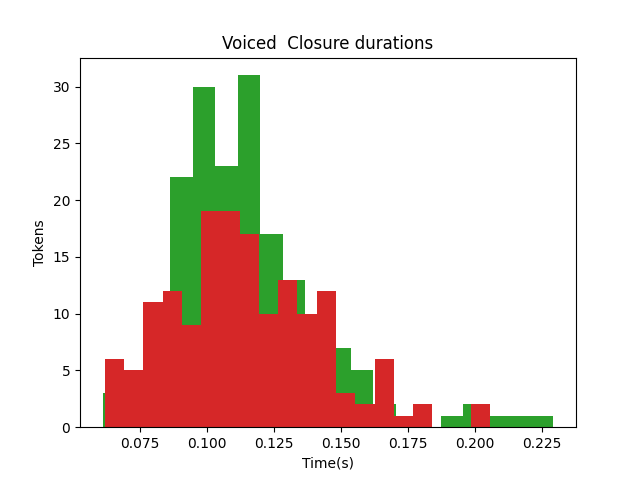
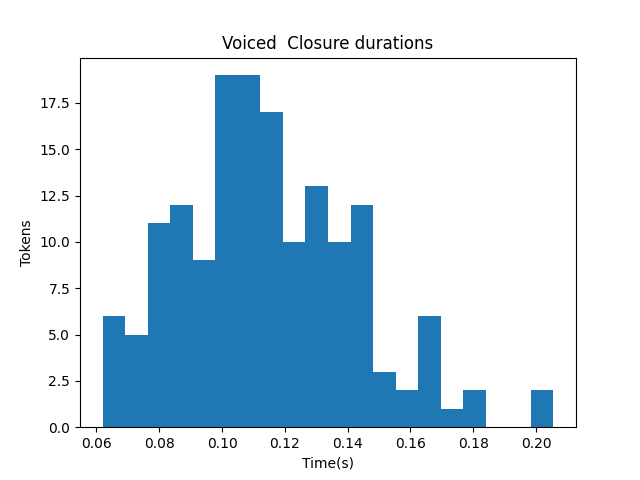
Added gradient clipping and got rid of bug where all the plots got squished into one

diff --git a/WaveformCNN/laff_vcv/compute_vcv_distributions.py b/WaveformCNN/laff_vcv/compute_vcv_distributions.py
@@ -89,7 +89,11 @@ def read_vowel_measurements(wav_file_name, vowel1, vowel2, vowel1_label, vowel2_
 
     # Steady-state measurement of vowel1: first 99% of the vowel - I don't have a good reason for picking this number; suggestions?
     v1_steady_min = vowel1.minTime
-    v1_steady_max = vowel1.maxTime * 0.99
+    v1_steady_max = vowel1.maxTime * 0.99 #TODO: reduce this split
+    #put vowel into many slices and get values for each slice - look for standard deviation to see if there's something weird
+    #getting measurement near closure- calculate slope and interpolate endpoint from earlier measurements?
+    #grab last few windows and check variance
+    #if checking by hand, do a variable sample
     v1_steady_midpoint = v1_steady_min + (v1_steady_max - v1_steady_max) / 2.0
     # Transition measurement of vowel1: last 10% of the vowel
     v1_transit_min = v1_steady_max
@@ -129,6 +133,7 @@ def read_vowel_measurements(wav_file_name, vowel1, vowel2, vowel1_label, vowel2_
 
     #Take f0 measurements of steady state vs transition regions (worried f0 won't be well defined if I go too near the  closure)
     #TODO: adjust parameters for different speakers
+    #check for cleanness in f0 contours
     pitch = parselmouth.praat.call(sound, "To Pitch", 0.0, 75, 500)  # create a praat pitch object
     vowel1_obj.measurement_dict[0]["steady"] = parselmouth.praat.call(pitch, "Get mean", v1_steady_min, v1_steady_max, "Hertz")  # get mean pitch
     vowel2_obj.measurement_dict[0]["steady"] = parselmouth.praat.call(pitch, "Get mean", v1_steady_min, v1_steady_max, "Hertz")
@@ -148,7 +153,7 @@ def plot_closure_data(tokens, nbins, label = "", speaker = "", savename=""):
     plt.hist([token.stop.closure_dur for token in tokens], bins=nbins)
     if savename != "":
         plt.savefig(savename)
-    #plt.show()
+    plt.show()
 
 
 #tokens: list of VCV
@@ -161,7 +166,7 @@ def plot_voicing_data(tokens, nbins, label = "", speaker = "", savename=""):
     plt.hist([token.stop.voicing_dur for token in tokens], bins=nbins)
     if savename != "":
         plt.savefig(savename)
-    #plt.show()
+    plt.show()
 
 
 #TODO: plot closure/voicing duration ratio
@@ -174,6 +179,7 @@ def plot_voicing_data(tokens, nbins, label = "", speaker = "", savename=""):
 #label: specific vowel quality (string) for title
 #speaker: speaker identity (string) for title
 def plot_vowel_measure(vowel_order, measure, location, tokens, nbins, label ="", speaker="", savename=""):
+    #plt.figure()
     title_measure = 'F'+str(measure) if measure > 0 else "f0"
     title_location = "away from closure" if location == "steady" else "near closure"
     title_vowel = "First vowel" if vowel_order == 1 else "Second vowel"
@@ -192,9 +198,10 @@ def plot_vowel_measure(vowel_order, measure, location, tokens, nbins, label ="",
     values = [value for value in values if not math.isnan(value)]
 
     plt.hist(values, bins=nbins)
+    plt.show()
     if savename != "":
         plt.savefig(savename)
-    #plt.show()
+
 
 #Helper function: creates plots for f0 and each formant
 #condition: function that takes a token and returns a boolean; only the tokens that result in True
@@ -204,7 +211,7 @@ def plot_vowel_measures(tokens,condition, label):
     # Plot steady f0
     plot_vowel_measure(1, 0, "steady", [token for token in tokens if condition(token)],
                        nbins, label=label, savename=plot_dir + label + "_v1_steady_f0.png")
-    plot_vowel_measure(2, 0, "steady", [token for token in tokens if token.vowel1.label == vowel],
+    plot_vowel_measure(2, 0, "steady", [token for token in tokens if condition(token)],
                        nbins, label=label, savename=plot_dir + label + "_v2_steady_f0.png")
 
     # Plot transition f0
@@ -277,14 +284,15 @@ if __name__ == "__main__":
     plot_closure_data([token for token in tokens if token.stop.label in voiced_stops], nbins, label="Voiced", savename=plot_dir+"VoicelessVoicedDur")
 
     #Vowel measurements by vowel
-    for vowel in vowels:
-        plot_vowel_measures(tokens, lambda token: token.vowel1.label == vowel, label=vowel)
+    if debug:
+        for vowel in vowels:
+            plot_vowel_measures(tokens, lambda token: token.vowel1.label == vowel, label=vowel)
 
-
-    #Vowel measurements by vowel x stop TODO: glottal stops
-    for vowel in vowels:
-        for stop in voiceless_stops + voiced_stops:
-            plot_vowel_measures(tokens, lambda token: token.vowel1.label == vowel and token.stop.label == stop, label = vowel+"_"+stop)
+    if debug:
+        #Vowel measurements by vowel x stop TODO: glottal stops
+        for vowel in vowels:
+            for stop in voiceless_stops + voiced_stops:
+                plot_vowel_measures(tokens, lambda token: token.vowel1.label == vowel and token.stop.label == stop, label = vowel+"_"+stop)
 
     #Vowel measurements by stop
     for stop in voiceless_stops+voiced_stops:

diff --git a/WaveformCNN/cnn.py b/WaveformCNN/cnn.py
@@ -109,15 +109,14 @@ def softmax_crossent_loss(target_y, predicted_y):
 #     model_vars = model.trainable_variables
 #     for epoch in range(num_epochs):
 #         train_op = optimizer.minimize(lambda: softmax_crossent_loss(target_y=y, predicted_y=model(x)),var_list=model_vars)
-#     #Todo: clip weights
+#
 
 #Instead of the above training code, use the built-in compile and specify the options there
 #Expose with a function: create_model
 def create_model():
     model = WaveCNN()
-    #Learning rate and beta1 values from Donahue
-    model.compile(optimizer = tf.keras.optimizers.Adam(learning_rate=2e-4, beta1=0.5), loss = softmax_crossent_loss)
-    #Todo: clip weights
+    #Learning rate, beta1, and clipping values from Donahue
+    model.compile(optimizer = tf.keras.optimizers.Adam(learning_rate=2e-4, beta1=0.5, clipvalue=0.01), loss = softmax_crossent_loss)
     return model
 
 
